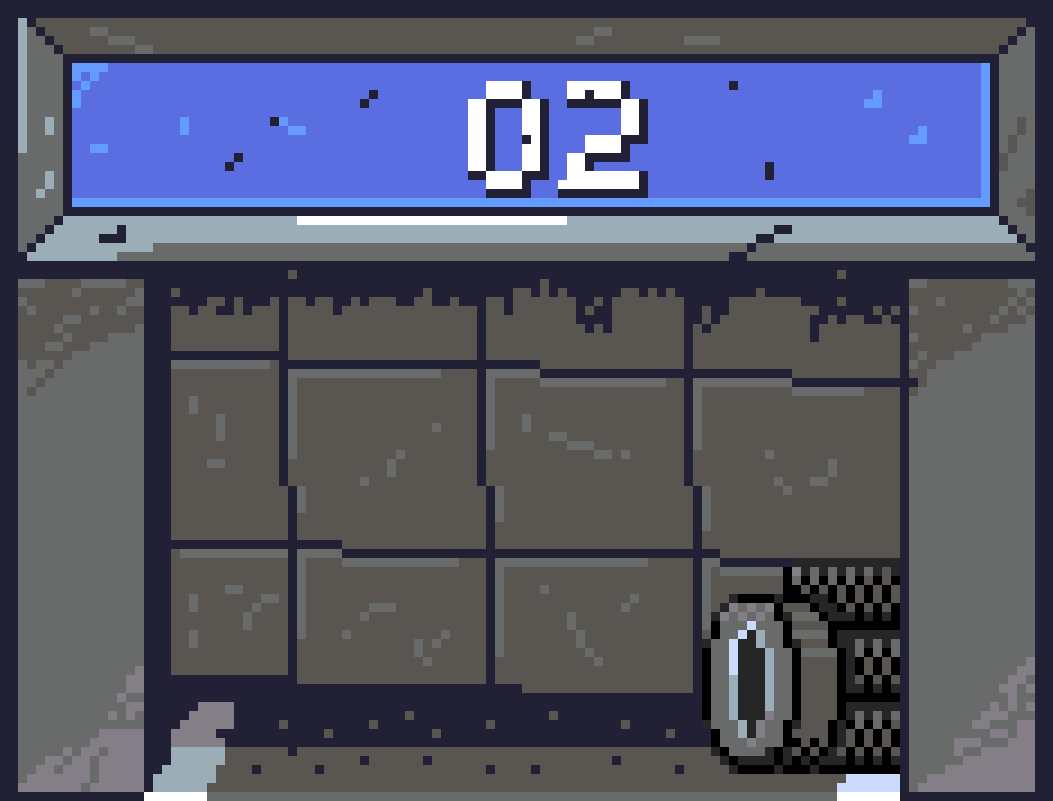
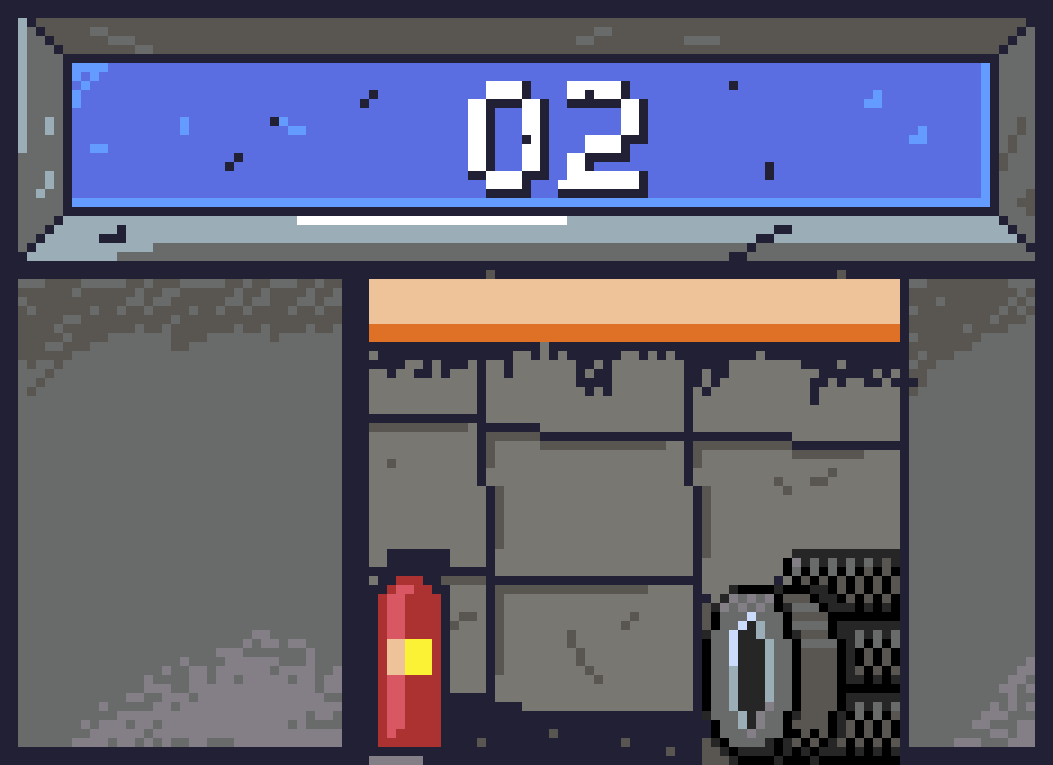
grada.v1

diff --git a/GameContext.py b/GameContext.py
@@ -144,21 +144,21 @@ class GameContext:
         )
         objects = MapGenerator.objects(
             objects,
-            self.road.segments[10:20],
+            self.road.segments[7:17],
             "pitbox.1",
             10.0, 0.0, -2.0
         )
         objects = MapGenerator.objects(
             objects,
-            self.road.segments[10:20],
+            self.road.segments[7:17],
             "pitbox.2",
-            10.0, 2.5, -2.0
+            10.0, 3.5, -2.0
         )
         objects = MapGenerator.objects(
             objects,
-            self.road.segments[10:20],
+            self.road.segments[7:17],
             "pitbox.3",
-            10.0, 5.0, -2.0
+            10.0, 7.0, -2.0
         )
         objects = MapGenerator.objects(
             objects,
@@ -171,6 +171,12 @@ class GameContext:
             self.road.segments[:5],
             "ruedas",
             10.0, 1.3, 0.5
+        )
+        objects = MapGenerator.objects(
+            objects,
+            self.road.segments[10:20],
+            "grada",
+            3.0, 0.0, 3.0
         )
 
         # PENDIENTE:

diff --git a/Escenario.py b/Escenario.py
@@ -87,6 +87,7 @@ class Escenario:
         self.cache.addImage("pitbox.3","pitbox.n.png",(0.5,1.0),False,False)
         self.cache.addImage("start","start.png",(0.5,3.5),False,False)
         self.cache.addImage("column","column.png",(0.5,1.0),False,False)
+        self.cache.addImage("grada","grada.png",(0.0,1.0),False,False)
 
         self.cache.addAnimation("enemigo.1","enemigo.1.png",(0.5,1.0),False,True,ancho=256,alto=256)
 
